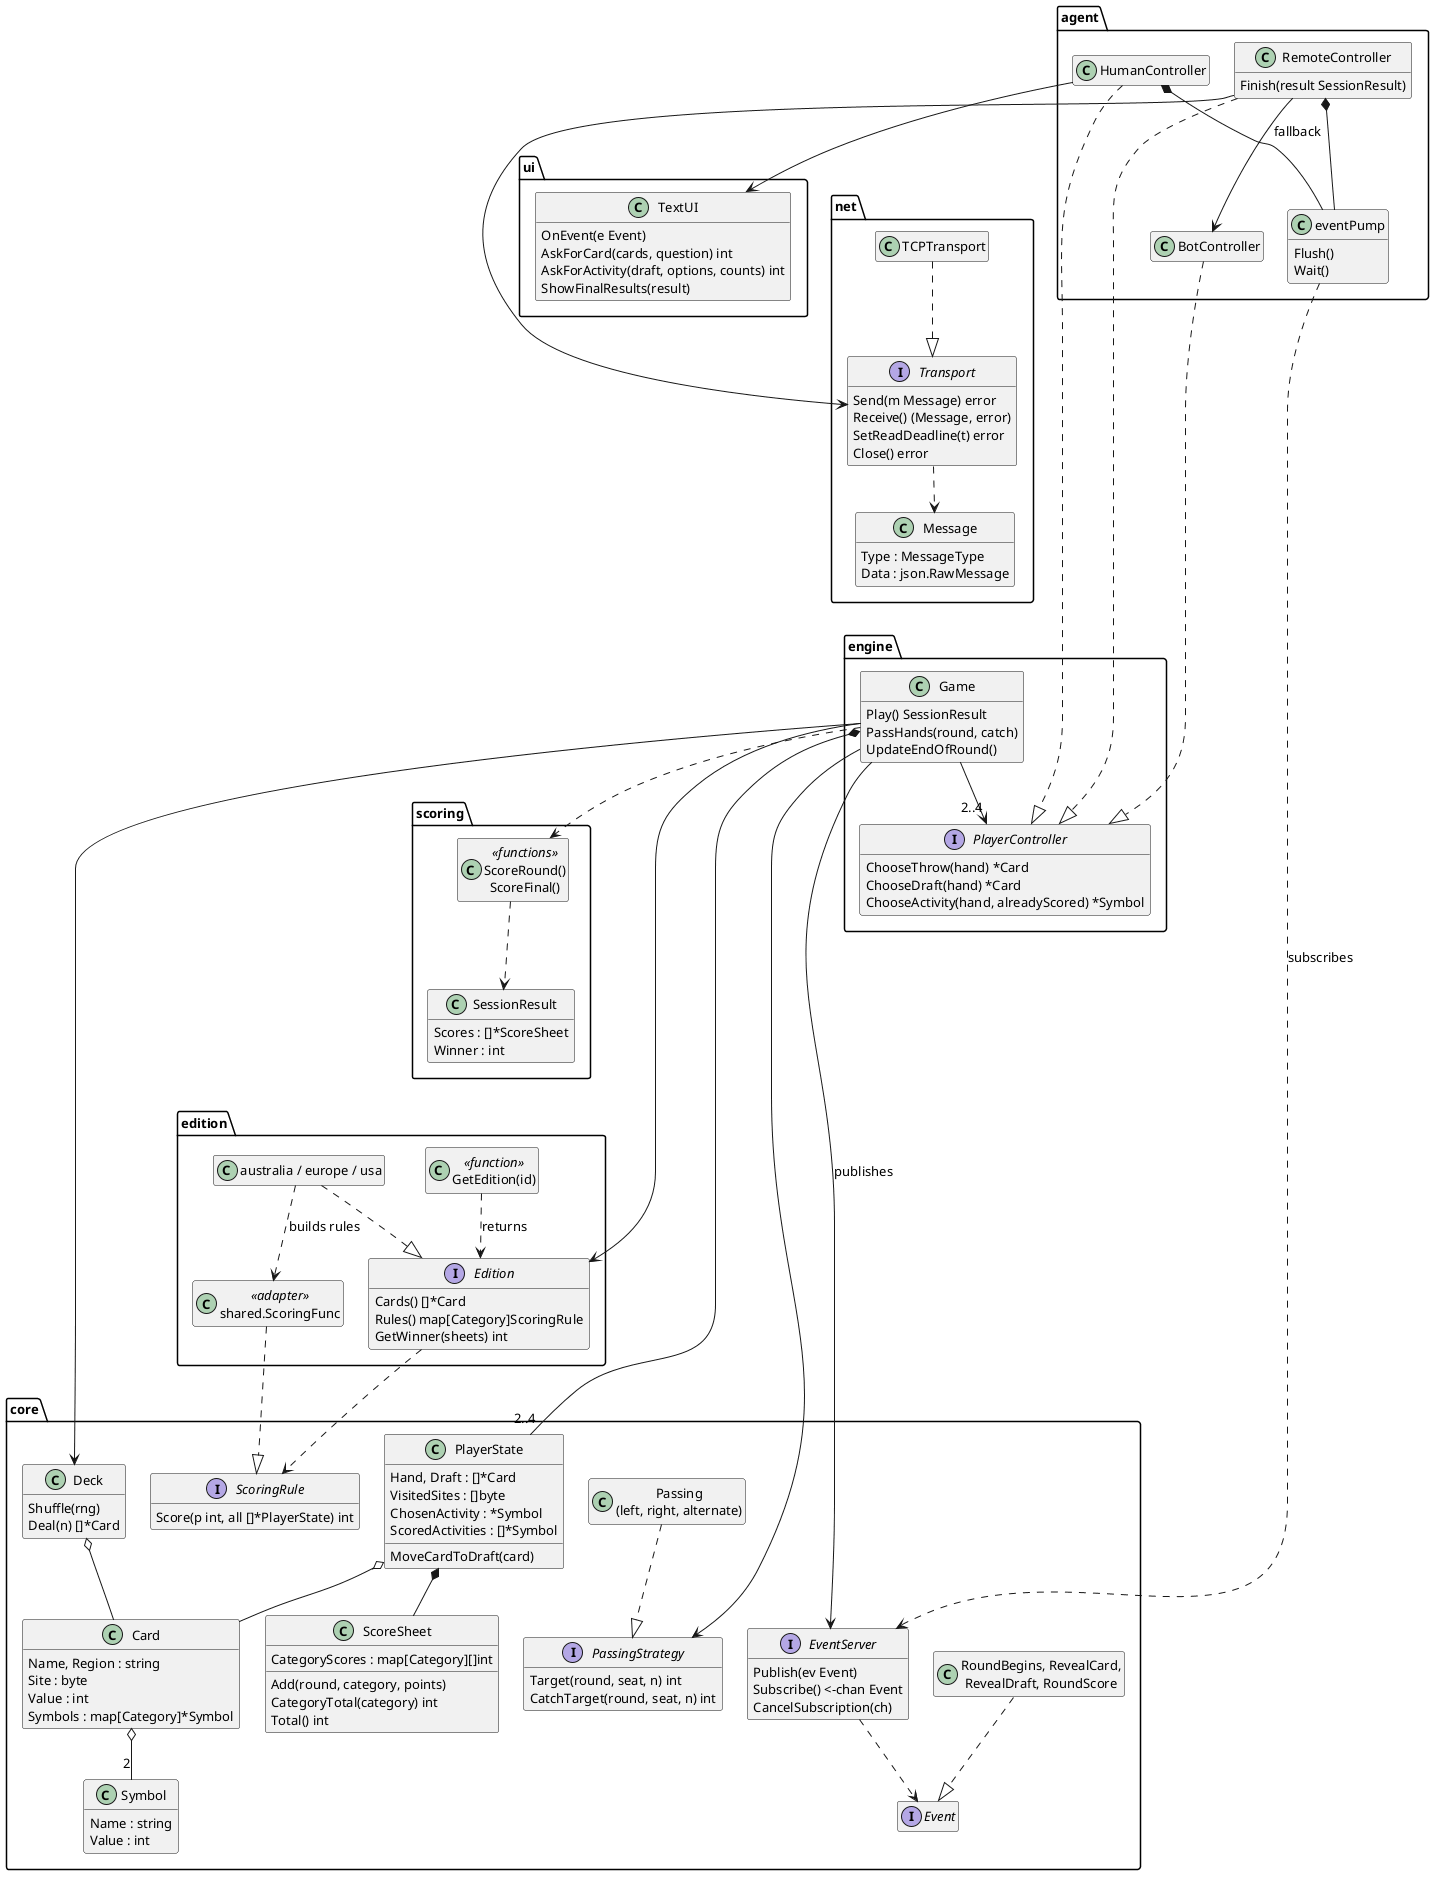
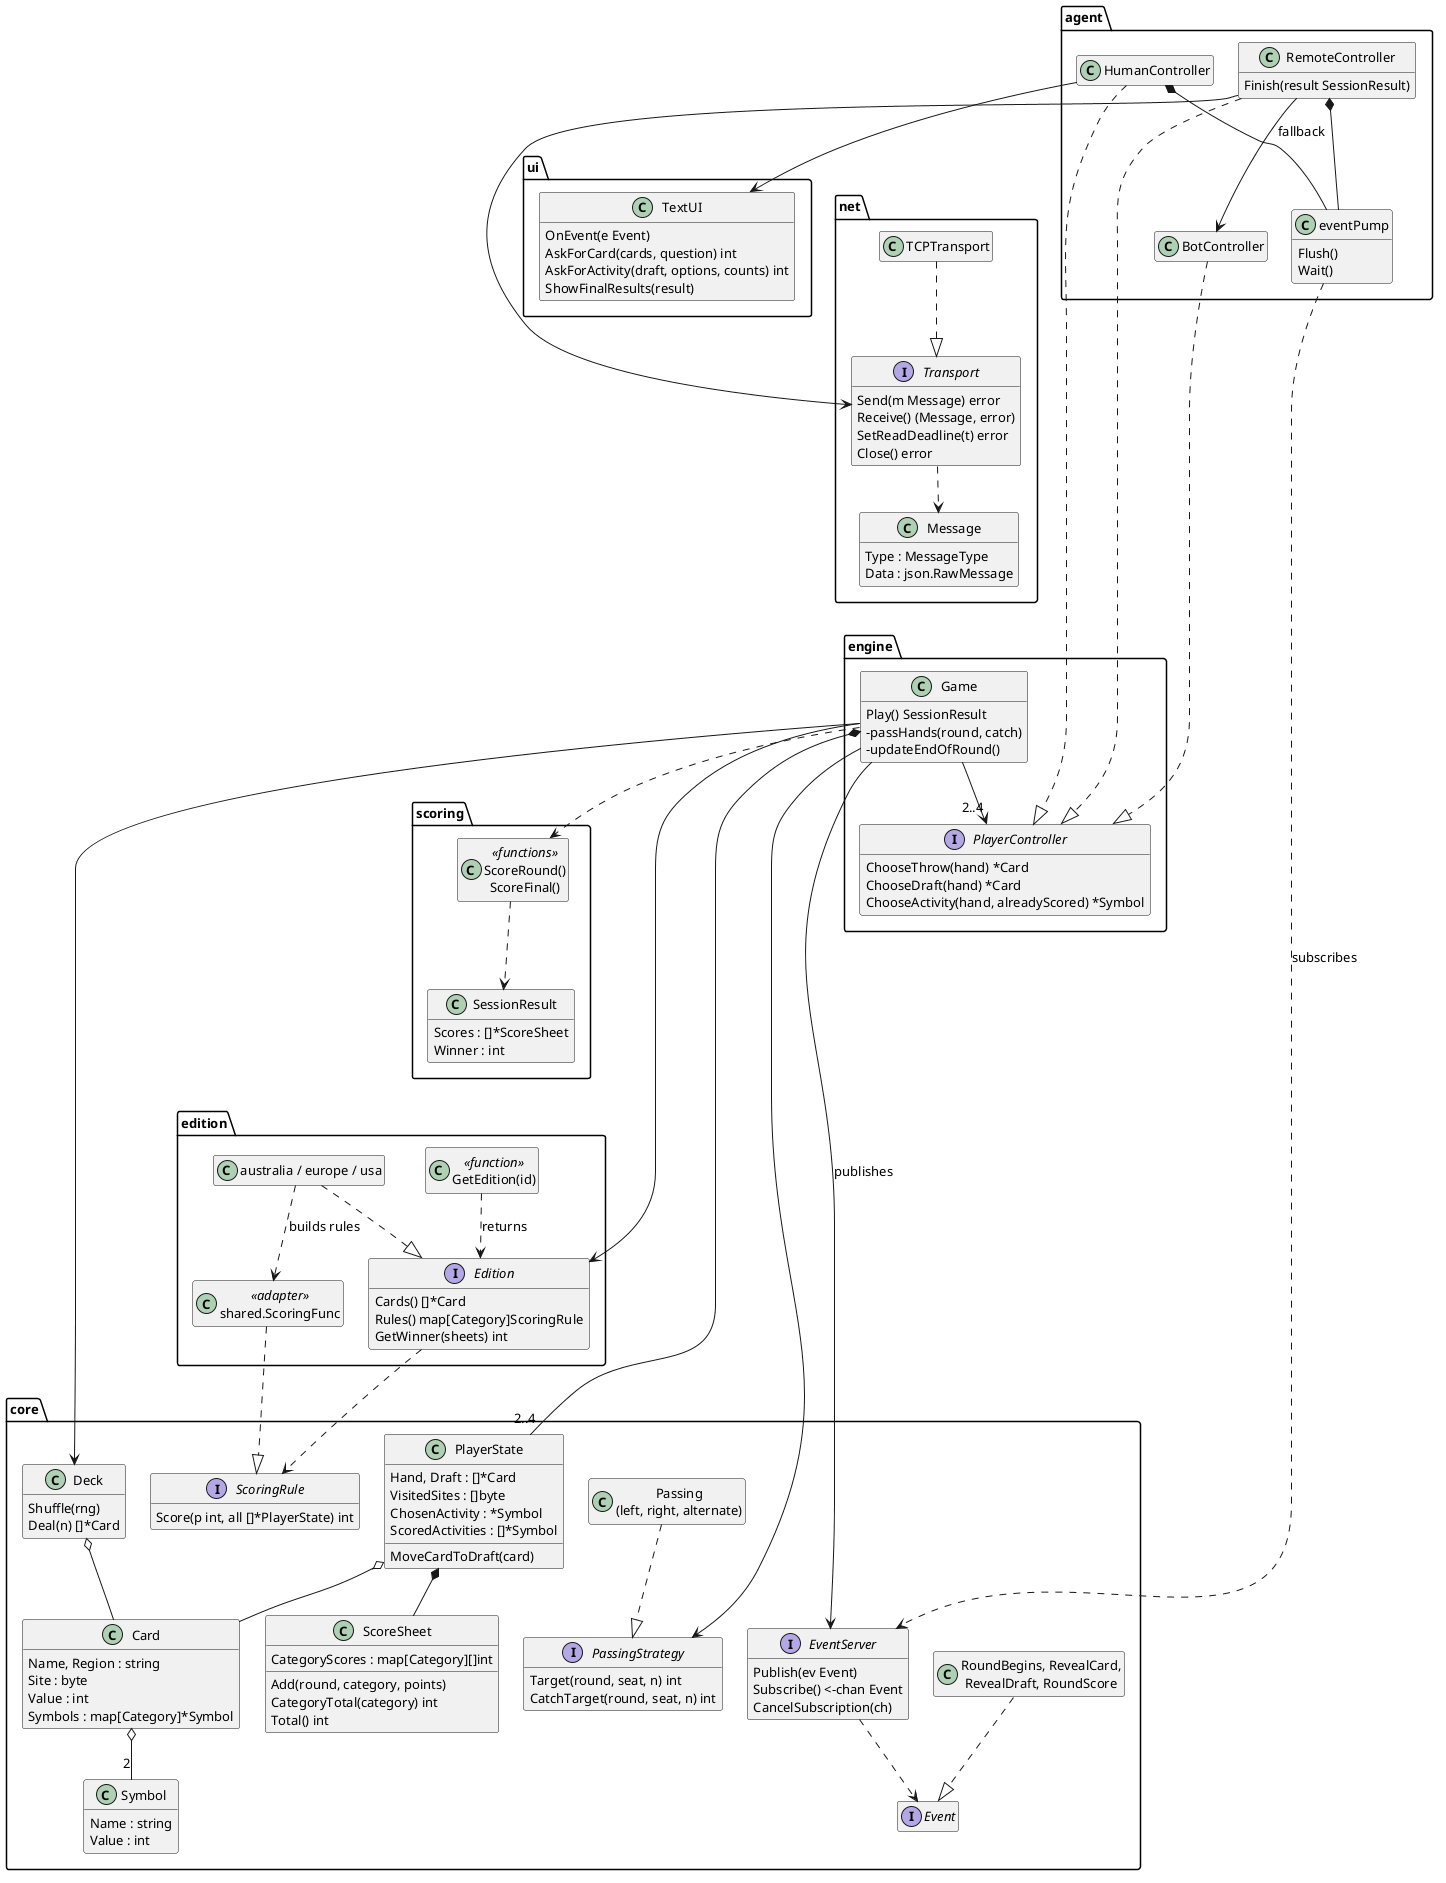
updating docs

diff --git a/README.md b/README.md
@@ -124,7 +124,7 @@ Every test is commented with the requirement number it verifies. The table shows
 | 4 | Each player is dealt 7 unique cards | `internal/core/deck_test.go` `TestDeckDealGivesDisjointHands`, `TestDealSevenUniqueCardsEachRound` |
 | 5 | The throw card is chosen first and stays hidden until the round ends | `TestThrowCardIsHiddenUntilRoundEnd`, `TestMoveCardToDraft` |
 | 6 | Hands are passed to the next player, and the last player passes to the first | `TestHandsPassToNextPlayer`, `TestPassLeftTargetsNextPlayer` |
-| 7–8 | One card is picked and shown per pass until one card remains | `TestDraftedCardsAreShown` |
+| 7–8 | One card is picked and shown per pass until one card remains, and picks are revealed only after every player has chosen | `TestDraftedCardsAreShown`, `TestPicksRevealedTogether` |
 | 9 | The catch card goes to the previous player | `TestCatchCardGoesToPreviousPlayer`, `TestCatchTargetIsOppositeOfPassing` |
 | 10a–e | Throw & catch, sites, region bonus (first to complete and simultaneous), collections, animals and activities (table, one per round, once per game) | `internal/edition/australia/scoringRules_test.go`, `TestUpdateEndOfRound`, `TestScoredActivitiesCarryOver`, `internal/agent/botController_test.go` |
 | 11 | Every round is scored before the next round starts | `TestFourRoundsScored`, `TestScoreRoundAppliesAllRules` |
